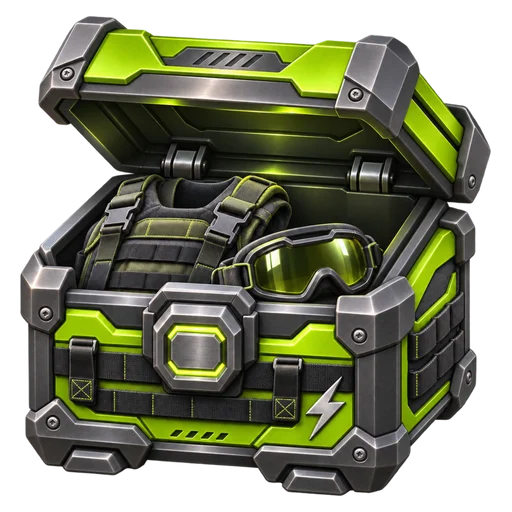
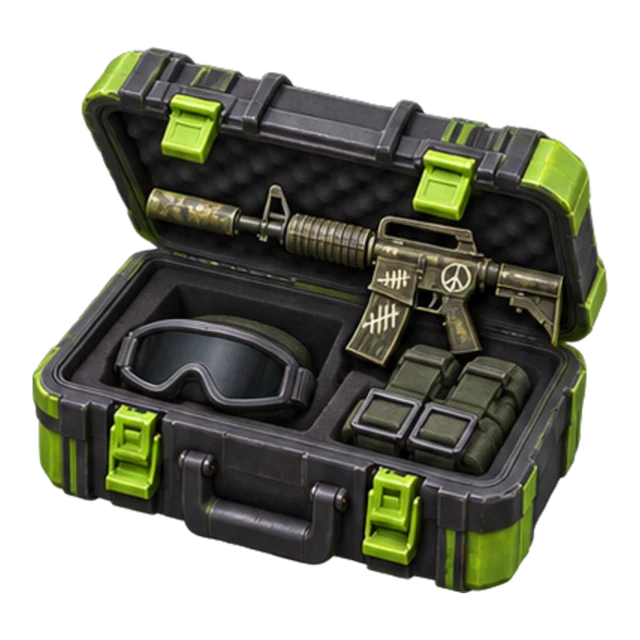
New case art for all 27 cases; home Cases tile; steadier tests
- public/assets/cases/<id>.webp: the owner's new designs (one per case, 640 x 640),
  including the four cases that used to borrow another crate's picture. The old
  pictures are removed.
- src/data.ts: the case picture is always assets/cases/<case id>.webp (the borrow
  map is gone). src/ui.ts: the old code-drawn crate is removed; a missing picture
  shows a neutral grey tile.
- Home "Cases" game tile is now the 5% Cosmic crate instead of a copy of the old
  Starter Crate.
- Tests that failed only under load or by float luck are now reliable: the reel
  test uses a fake clock, the heavy database tests get a 60 s limit (the whole
  catalogue is in the test database), and the crash test rounds to cents.
- docs/history.md: entries for the owner feedback, the catalogue rollout and the
  new art.

diff --git a/tests/reel.test.ts b/tests/reel.test.ts
@@ -43,8 +43,13 @@ describe('spinning a reel', () => {
     Object.defineProperty(HTMLElement.prototype, 'clientWidth', { configurable: true, get() { return VIEW; } });
     document.body.innerHTML = '<div id="host"></div>'; host = document.getElementById('host') as HTMLElement;
     vi.mocked(sfx.tick).mockClear();
+    // A fake clock and a frame every millisecond: the result no longer depends on how busy the machine is (real frames made this test flaky under load).
+    vi.useFakeTimers();
+    vi.stubGlobal('requestAnimationFrame', (cb: FrameRequestCallback): number => setTimeout(() => cb(performance.now()), 1) as unknown as number);
   });
-  afterEach(() => { vi.restoreAllMocks(); delete (HTMLElement.prototype as any).offsetWidth; delete (HTMLElement.prototype as any).clientWidth; });
+  afterEach(() => { vi.useRealTimers(); vi.unstubAllGlobals(); vi.restoreAllMocks(); delete (HTMLElement.prototype as any).offsetWidth; delete (HTMLElement.prototype as any).clientWidth; });
+  /** Spin and let the clock run until the reel has finished. */
+  const spin = async (winner: (typeof ITEMS)[number], opts: { duration: number; sound?: boolean }): Promise<void> => { const p = spinReel(host, pool, winner, opts); await vi.advanceTimersByTimeAsync(opts.duration + 800); await p; };
 
   const pool = ITEMS.slice(0, 8).map(item => ({ item, weight: 1 }));
   const x = (): number => { const m = /translate3d\((-?[\d.]+)px/.exec((host.querySelector('.reel-strip') as HTMLElement).style.transform); return m ? parseFloat(m[1] as string) : 0; };
@@ -52,9 +57,9 @@ describe('spinning a reel', () => {
   it('lands exactly under the marker on the winning tile, with no correction move at the end, and then lights the winner', async () => {
     const winner = ITEMS[20]!, seen: number[] = [];
     const strip = (): HTMLElement => host.querySelector('.reel-strip') as HTMLElement;
-    const p = spinReel(host, pool, winner, { duration: 600, sound: true });
     const tm = setInterval(() => seen.push(x()), 8);
-    await p; clearInterval(tm);
+    await spin(winner, { duration: 600, sound: true });
+    clearInterval(tm);
     const final = x(), centre = VIEW / 2 - (46 * STEP + SIZE / 2);                   // the winner sits at index 46 of 56
     expect(Math.abs(final - centre)).toBeLessThanOrEqual(SIZE * 0.3);                // inside the winning tile, away from its edges
     expect(strip().style.transition).toBe('none');                                   // one moving transform, nothing animating on the side
@@ -66,11 +71,11 @@ describe('spinning a reel', () => {
     const tail = seen.slice(-5); expect(Math.max(...tail) - Math.min(...tail)).toBeLessThan(40);
   });
   it('ticks once for every tile that passes the marker', async () => {
-    await spinReel(host, pool, ITEMS[5]!, { duration: 500, sound: true });
+    await spin(ITEMS[5]!, { duration: 500, sound: true });
     const n = vi.mocked(sfx.tick).mock.calls.length;
     expect(n).toBeGreaterThan(35); expect(n).toBeLessThanOrEqual(47);             // about 46 tiles go by
     vi.mocked(sfx.tick).mockClear();
-    await spinReel(host, pool, ITEMS[5]!, { duration: 300, sound: false });
+    await spin(ITEMS[5]!, { duration: 300, sound: false });
     expect(sfx.tick).not.toHaveBeenCalled();
   });
   it('shows no big glow blobs: the glow is contained in its tile', () => {

diff --git a/src/ui.ts b/src/ui.ts
@@ -2,7 +2,7 @@
 import { RARITY, itemName } from './data.js';
 import { state } from './state.js';
 import { sfx } from './sfx.js';
-import { itemArtSvg } from './art.js';
+import { itemArtSvg, NO_PICTURE } from './art.js';
 
 // DOM helpers. They return `any` on purpose: the views poke at many element kinds (inputs, buttons, svg) and the
 // ids are validated by the browser tests, not by the type system.
@@ -46,22 +46,9 @@ export function itemCard(item, { compact = false, extra = '', cls = '', eager = 
   </div>`;
 }
 
+/** The picture of a case (assets/cases/<id>.webp, set in src/data.ts). */
 export function caseArt(c, size = '') {
-  if (c.img) return `<img class="case-art case-img ${size}" src="${c.img}" alt="" loading="lazy" decoding="async">`;
-  const a = `hsl(${c.hue} 90% 60%)`, b = `hsl(${c.hue} 80% 32%)`, d = `hsl(${c.hue} 70% 18%)`;
-  const id = `c${c.id}${Math.random().toString(36).slice(2, 6)}`;
-  return `<svg class="case-art ${size}" viewBox="0 0 120 100" aria-hidden="true"><defs>
-    <linearGradient id="${id}f" x1="0" y1="0" x2="0" y2="1"><stop offset="0" stop-color="${a}"/><stop offset="1" stop-color="${b}"/></linearGradient>
-    <radialGradient id="${id}g"><stop offset="0" stop-color="${a}" stop-opacity=".55"/><stop offset="1" stop-color="${a}" stop-opacity="0"/></radialGradient></defs>
-    <ellipse cx="60" cy="60" rx="58" ry="40" fill="url(#${id}g)"/>
-    <path d="M18 42 60 30l42 12v38L60 94 18 80z" fill="${d}"/>
-    <path d="M18 42 60 54v40L18 80z" fill="url(#${id}f)"/>
-    <path d="M102 42 60 54v40l42-14z" fill="${b}"/>
-    <path d="M14 34 60 21l46 13-4 9-42-12-42 12z" fill="${a}"/>
-    <path d="M60 54v40" stroke="rgba(0,0,0,.35)" stroke-width="1.5"/>
-    <path d="M42 58 36 72h6l-3 12 11-16h-6l4-10z" fill="#fff" opacity=".9"/>
-    <path d="M78 58v24M86 55v24" stroke="rgba(255,255,255,.25)" stroke-width="3"/>
-  </svg>`;
+  return `<img class="case-art case-img ${size}" src="${c.img || NO_PICTURE}" alt="" loading="lazy" decoding="async" draggable="false" onerror="this.onerror=null;this.src='${NO_PICTURE}'">`;
 }
 
 const AV_COLORS = ['#ff6b6b', '#ffa94d', '#ffd43b', '#69db7c', '#38d9a9', '#4dabf7', '#9775fa', '#f783ac'];

diff --git a/src/data.ts b/src/data.ts
@@ -52,15 +52,10 @@ export const itemOf = (id: string): Item => ITEM[id] ?? missingItem(id);
 /** "AK-47 | Redline (Field-Tested)" */
 export const itemName = (i: Item): string => `${i.st ? 'StatTrak™ ' : ''}${i.weapon}${i.skin ? ` | ${i.skin}` : ''}${i.wear ? ` (${WEAR_NAME[i.wear] ?? i.wear})` : ''}`;
 
-// Case box art (assets/cases/<id>.webp). Cases without a file fall back to the drawn crate in ui.js.
-const CASE_IMG = new Map<string, string>([...['starter', 'flip', 'neon', 'charmed', 'sniper', 'blade', 'high', 'wasteland', 'gearup', 'canyon', 'arcade', 'foundry', 'deeptide', 'blossom', 'relic', 'scopes', 'charmparade', 'heavy', 'gilded', 'knifeedge', 'fox33', 'daily', 'aurora'].map((id): [string, string] => [id, id]),
-  // no dedicated art yet: borrow the closest crate
-  ['phantom10', 'arcade'], ['blade20', 'deeptide'], ['cosmic5', 'aurora'], ['welcome', 'daily']]);
-
 // The cases, with their drop tables, prices and expected values, are generated (see the top of this file). A price keeps the 90% return: price = expected value / 0.9.
 const build = (c: any): Case => ({
   id: c.id, name: c.name, hue: c.hue, tag: c.tag, reward: c.reward || undefined,
-  img: CASE_IMG.has(c.id) ? `assets/cases/${CASE_IMG.get(c.id)}.webp` : undefined,
+  img: `assets/cases/${c.id}.webp`,                               // every case has its own picture: public/assets/cases/<id>.webp
   entries: c.entries.map((e: any): CaseEntry => ({ item: ITEM[e.id] as Item, weight: e.chance, chance: e.chance, from: e.from, to: e.to })),
   ev: c.ev, price: c.price,
 });

diff --git a/tests/rounds-db.test.ts b/tests/rounds-db.test.ts
@@ -137,7 +137,7 @@ describe('crash', () => {
     const { r, cp } = await crashRound(c => c >= 3);
     await rpc(ALICE, 'crash_place_bet', r.id, 10, 1.5, false);       // auto cash-out below the crash point: paid by the server
     await rpc(BOB, 'crash_place_bet', r.id, 4, null, false);         // never cashes out: busts
-    await rpc(CARA, 'crash_place_bet', r.id, 6, cp + 1, false);      // auto above the crash point: busts
+    await rpc(CARA, 'crash_place_bet', r.id, 6, Math.min(1000, Math.round((cp + 1) * 100) / 100), false);      // auto above the crash point: busts (rounded to cents: 5.35 + 1 can come out as 6.3500000000000005, which the database refuses)
     await startedAgo(r.id, crashSecs(cp) - 0.2);
     expect((await advance(ALICE, 'crash')).status).toBe('running');   // 0.2 s before the crash: still running
     await startedAgo(r.id, crashSecs(cp) + 0.5);

diff --git a/tests/wallet-live-db.test.ts b/tests/wallet-live-db.test.ts
@@ -5,7 +5,10 @@
 import { readFileSync } from 'node:fs';
 import { PGlite } from '@electric-sql/pglite';
 import { pgcrypto } from '@electric-sql/pglite/contrib/pgcrypto';
-import { afterAll, beforeAll, describe, expect, it } from 'vitest';
+import { afterAll, beforeAll, describe, expect, it, vi } from 'vitest';
+
+// These tests run real battles and games in an in-process database that holds the whole item catalogue: on a busy machine the 5-second default is too tight.
+vi.setConfig({ testTimeout: 60_000 });
 import { CASE, entryForTicket, ticketOf } from '../src/data.js';
 import { realItemMigrations } from './helpers.js';
 import { decide, FORMATS, shareOf } from '../src/battle-math.js';

diff --git a/tests/wallet-db.test.ts b/tests/wallet-db.test.ts
@@ -5,7 +5,10 @@
 import { readFileSync } from 'node:fs';
 import { PGlite } from '@electric-sql/pglite';
 import { pgcrypto } from '@electric-sql/pglite/contrib/pgcrypto';
-import { afterAll, beforeAll, describe, expect, it } from 'vitest';
+import { afterAll, beforeAll, describe, expect, it, vi } from 'vitest';
+
+// These tests run real battles and games in an in-process database that holds the whole item catalogue: on a busy machine the 5-second default is too tight.
+vi.setConfig({ testTimeout: 60_000 });
 import { CASES, REWARD_CASES, ITEMS, ITEM, CATALOGUE_TOTAL, entryForTicket, ticketOf } from '../src/data.js';
 import { realItemMigrations } from './helpers.js';
 

diff --git a/tests/real-items-db.test.ts b/tests/real-items-db.test.ts
@@ -5,7 +5,10 @@
 import { readFileSync } from 'node:fs';
 import { PGlite } from '@electric-sql/pglite';
 import { pgcrypto } from '@electric-sql/pglite/contrib/pgcrypto';
-import { afterAll, beforeAll, describe, expect, it } from 'vitest';
+import { afterAll, beforeAll, describe, expect, it, vi } from 'vitest';
+
+// These tests run real battles and games in an in-process database that holds the whole item catalogue: on a busy machine the 5-second default is too tight.
+vi.setConfig({ testTimeout: 60_000 });
 import { CASES, CATALOGUE_TOTAL, ITEM, REWARD_CASES } from '../src/data.js';
 import { realItemMigrations } from './helpers.js';
 

diff --git a/docs/history.md b/docs/history.md
@@ -28,9 +28,12 @@ A short log of how the project got here, why, and what is still open.
 16. **Admin site, step A (2026-11-21).** After the proposal and the owner's decisions (full scope, full server wallet, separate admin site, Owner only for now, every permission switchable by a higher rank, Steam + authenticator + admin password, read-only data explorer), built the foundation: `0006_admin.sql` and a separate admin site with the three-step sign-in, roles with ranks, editable permissions, an append-only audit log and the Owner's read-only explorer. See [admin-site.md](admin-site.md). **0004, 0005 and 0006 must be run in Supabase and the Owner statement executed; not yet tried with a real sign-in.**
 17. **Admin step B1: site controls (2026-11-21).** First slice of "control and visibility". `0007_site_controls.sql` adds one settings row and the guards that the database itself enforces: maintenance mode (with a one-minute warning on the page), a site notice, per-game switches, sign-ups open or closed, and country restrictions read from the connection's country header (compared, never stored). The guard is added to the live games, the free crates and sign-up by editing the stored function text, with a test that calls every entry point; leaving and cashing out are never blocked; staff are never locked out. The game site got `src/site.ts` (notice bar, full-screen messages, paused-game panel); the admin site got a Site controls page. The Privacy page now says the country check exists. Browser-only games (Cases, Upgrade, Plinko, Mines) are paused by the page only until the full wallet (step D). **0007 must be run in Supabase after 0006.**
 18. **The server wallet (2026-11-21).** The owner: every game mode must keep coins on the server, not in the browser. Built in two halves. Database: `0008` to `0012` (wallet, inventory, catalogue generated from `src/data.ts`, Cases, Upgrade, Plinko, Mines, Coinflip, Battles with all seven modes ported to SQL, Crash and Double stakes and payouts, faucet, rakeback, calendar, promo codes, free crates, race prize); new accounts start at 0; 67 database tests including a battle-by-battle comparison with the browser's `decide()` and a ledger replay. Page: `src/wallet.ts` mirrors the server, `state.ts` makes `credit`, `grant`, `addItems` and `removeItems` inert while it is on (nothing can be minted from the browser), payouts are held until their animation ends, every game and reward page asks the server, the Cloud account tab re-checks every bet. See [server-wallet.md](server-wallet.md). **0008 to 0012 must be run in Supabase, in order; 0011 closes games that were waiting, without refunds.**
+18a. **Owner feedback after the wallet (2026-11-21).** Fixed as the owner tested the live site, each pushed and deployed: a new item now appears in the inventory counter only after its reel animation ends, although it is stored at once (a refresh or the Inventory page shows it); the case-opening animation was rebuilt to feel crisp and smooth (a single velocity curve, whole-pixel positions, a short pause before the winner lights up) and the rarity glow was toned down; the battle VS chip got space; Double betting was redrawn like other sites (the stretched avatar was the problem); the chat no longer flashes simulated players on refresh when a cloud sign-in is saved; the top-bar balance and inventory glow green only for gains (selling, an item added), not for every state event; case opening has one speed plus a lightning "fast open" button (between the old Fast and Turbo, also for demo spins); the "You unboxed" panel was removed; the top-bar level badge follows the account's real level. Also documented and tested how to give coins by SQL (an adjustment ledger line, or a promo code).
 19. **Crash pace and the number on screen (2026-11-22).** The owner: the number while rising did not match the number it crashed at (it looked like 1.20 and crashed at 1.03), and it counted too fast. Cause: the database decides a round has crashed only when a browser asks, so the page kept climbing for the time it took to hear (polling plus network, up to over a second). Fix: slower pace (`0013_crash_pace.sql`, `crash_rate()` 0.00008, 2x after 8.7 s), everybody checks four times a second while a round runs, and the number is shown 0.4 s behind the server and never past the last moment the server confirmed the round was still running (`liveElapsed`). Crash timing was deliberately NOT compensated at cash-out: a cash-out judged at an earlier time would let a modified page cash out at almost the crash point every round, because the crash point is published before such a window would close.
 
 20. **The real Counter-Strike 2 catalogue (2026-11-21).** The owner asked for every item of the game, with its picture and price, to replace the invented items in the cases. Names, grades, wear and pictures come from ByMykel's CSGO-API, prices from Skinport's bulk API (lowest listing), joined on the market name: 14,411 priced items. The 27 cases were rebuilt from real skins by theme and value band with the same maths (weight 1/value^1.25 or fixed odds, price = expected value / 0.9, tickets out of 100,000). The owner then asked to check what credit-card deposits pay on comparable sites (screenshots) and apply it: coins per dollar 1.61 and 1.666 (average 1.64); item values are now Skinport USD x 1.64. Only the 166 items inside cases are bundled; the Upgrade page searches all of them from static index and item files (`src/catalogue.ts`). The database got the whole catalogue (0014, five parts) and the cases (0015); old inventory items are swapped for the closest real item. The footer and legal pages no longer say item names are invented. Details: [real-catalogue.md](real-catalogue.md). Open: pictures are hotlinked from Valve's servers; free-coin amounts were not rescaled.
+
+21. **New case art (2026-11-21).** The owner re-made all the crate pictures with ChatGPT (from a folder of the old crates that was prepared for that) so that every case shows the real items it holds, and supplied 27 transparent 1024 x 1024 PNGs, one per case. They replace the old pack: `public/assets/cases/<id>.webp` (640 x 640, converted with `sharp` from `source-art/vault-rush-cs2-filled-cases`, which is not in git). The four cases that used to borrow another crate's picture (10% AWP, 20% Knife, 5% Cosmic, Welcome Crate) now have their own. `src/data.ts` no longer maps cases to pictures (the picture is always `assets/cases/<case id>.webp`), and the old code-drawn crate was removed from `caseArt` in `src/ui.ts` (a missing picture shows a neutral grey tile). The old art pack and the copy prepared for ChatGPT were deleted. The home page "Cases" game tile (`public/assets/home/cases.webp`, 480 x 340) had been a copy of the old Starter Crate; it is now the 5% Cosmic crate (purple and gold, an exotic AK inside), trimmed and fitted to the tile size.
 
 ## Decisions worth remembering
 
@@ -44,9 +47,11 @@ A short log of how the project got here, why, and what is still open.
 
 ## Status and open items
 
-- Live site and Supabase project are configured. Pull request #2 (compliance, accounts, backend, Google and Steam) is open with passing CI; **it has not been merged into `main`**, so GitHub's default branch still has the older code.
+- Live site and Supabase project are configured. Pull request #2 (compliance, accounts, backend, Google and Steam) was merged into `main`. Everything built since (live multiplayer, admin site, site controls, the server wallet, the polish, the slower Crash, the real catalogue) is on branch `compliance` and **not in `main`**; no new pull request has been opened.
+- **Deployed:** the live site runs everything through the real catalogue (commit "Real Counter-Strike 2 catalogue...", 2026-11-21), and migrations 0001 to 0015 have been run in Supabase (the owner confirmed 0014 parts 1 to 5 and 0015 succeeded). Not yet confirmed by a signed-in test on the live site: opening a case, an upgrade, and that old inventory items were converted. The admin site (including Site controls) runs only on localhost; it is not deployed.
 - **Google sign-in:** the redirect to Google's consent page works; a complete round trip has not yet been confirmed by the owner.
 - **Steam picture:** the Steam function was updated to also save the picture; it must be redeployed and the player must sign in again once to see it.
 - The `supabase/.temp` link folder was removed during a history clean-up; run `supabase link` again before the next function deploy.
-- Only Crash runs server-side. Other games, weekly and monthly loss and time limits on the server, server-side KYC/AML, and wiring the chat UI to the realtime table are future work.
+- Every game and reward runs through the server wallet now (see [server-wallet.md](server-wallet.md) for what is still simplified): weekly and monthly loss limits, the daily wager limit and time limits are enforced only in the browser; server-side KYC/AML; the Triple Green pot in Double is simulated; there are no admin wallet tools or ledger viewer yet.
+- Admin site roadmap: steps A (sign-in, roles, audit log, explorer) and B1 (site controls) are built; the rest of B (players, moderation, rounds), C (catalogue editor), D (admin wallet tools), E (rewards, promos, races), F (compliance, economy, risk), G (legal editor, system health) are not. See [admin-panel-proposal-2026-11-21.md](admin-panel-proposal-2026-11-21.md).
 - The Edge Functions have been exercised only through their start redirect and a Steam login by the owner; there is no automated test against live Steam or Supabase.
